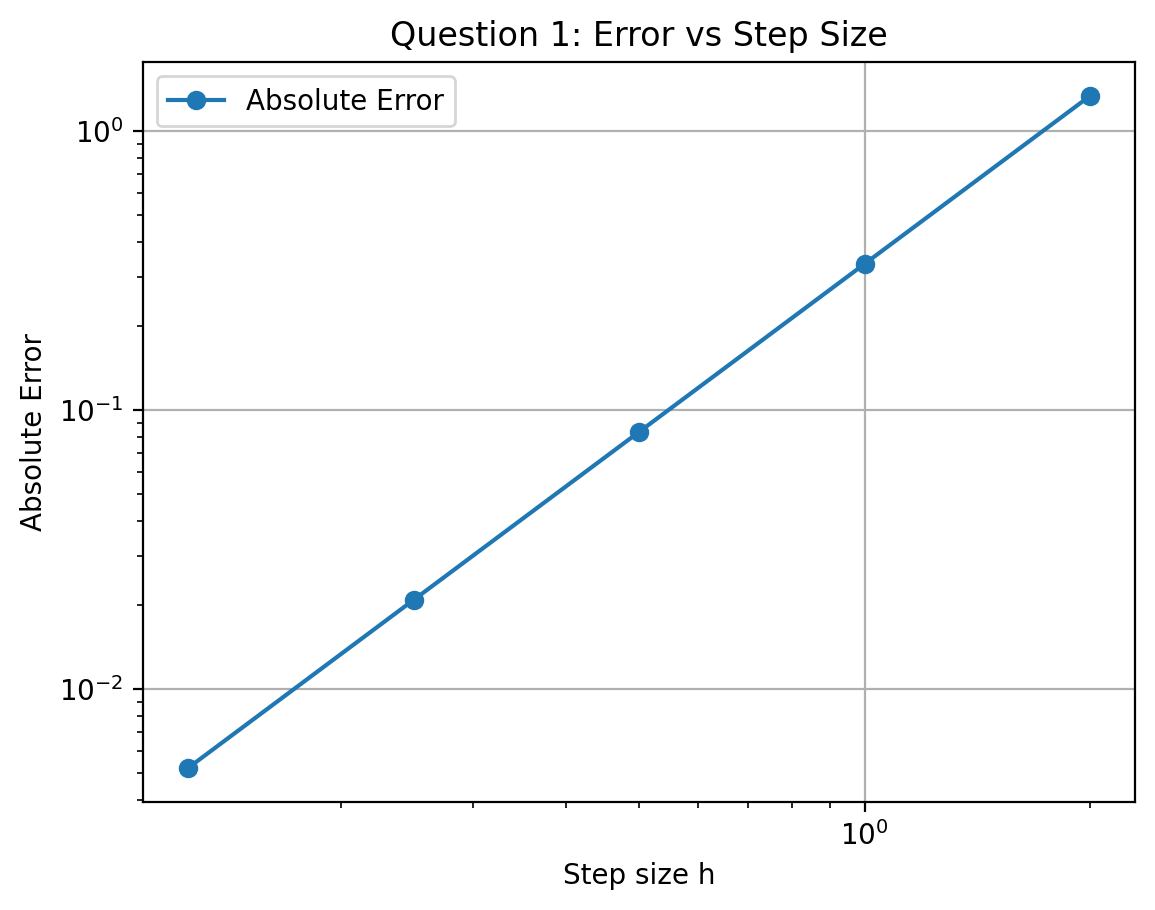
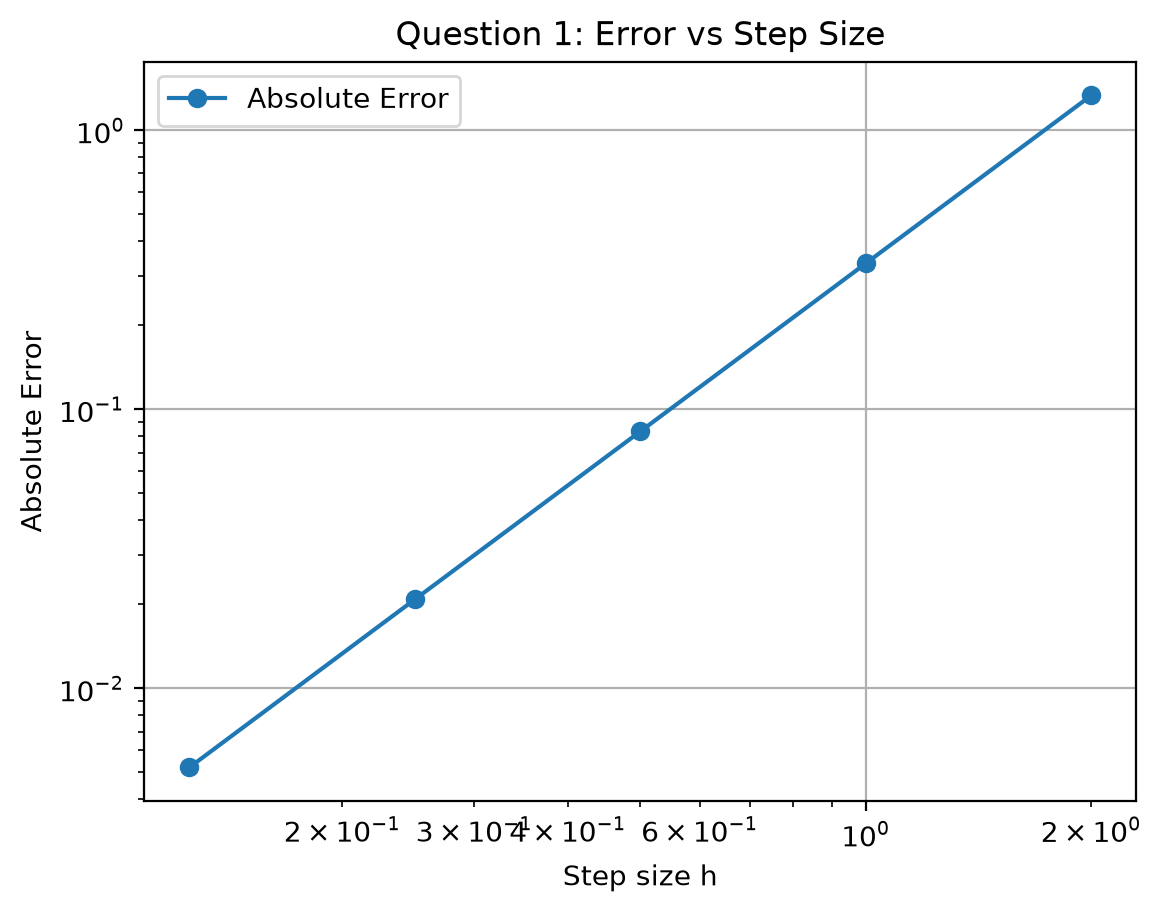
Remove Richardson extrapolation

diff --git a/Assignment_7_Trapezoidal_Rule/main.py b/Assignment_7_Trapezoidal_Rule/main.py
@@ -8,7 +8,6 @@ from algorithms import (
     TrapezoidalRule,
     absolute_error,
     estimate_order,
-    richardson_extrapolation,
 )
 
 # Import input, output and graph functions.
@@ -99,41 +98,11 @@ def question1(data):
     for row in rows:
         print("\t".join(str(value) for value in row))
 
-    # Perform Richardson extrapolation.
-    richardson_rows = []
-
-    # Use consecutive n values for Richardson calculation.
-    for i in range(len(n_values) - 1):
-        # Get old and new trapezoidal results.
-        old_result = approximation_values[i]
-        new_result = approximation_values[i + 1]
-
-        # Calculate Richardson result.
-        richardson = richardson_extrapolation(old_result, new_result)
-
-        # Calculate its error.
-        richardson_error = absolute_error(richardson, exact_value)
-
-        # Store Richardson values.
-        richardson_rows.append([
-            n_values[i],
-            n_values[i + 1],
-            f"{richardson:.10f}",
-            f"{richardson_error:.10f}",
-        ])
-
     # Save the main Question 1 table.
     save_csv(
         OUTPUT_FOLDER / "question1_table.csv",
         ["n", "h", "Approximation", "Absolute Error", "Order"],
         rows,
-    )
-
-    # Save Richardson table.
-    save_csv(
-        OUTPUT_FOLDER / "question1_richardson.csv",
-        ["Old n", "New n", "Richardson Value", "Richardson Error"],
-        richardson_rows,
     )
 
     # Create the Question 1 graph.
@@ -144,7 +113,7 @@ def question1(data):
     )
 
     # Return values for the final report.
-    return rows, richardson_rows
+    return rows
 
 
 def question2(data):
@@ -279,7 +248,7 @@ def main():
     data = read_input_file(INPUT_FILE)
 
     # Run Question 1.
-    q1_rows, richardson_rows = question1(data)
+    q1_rows = question1(data)
 
     # Run Question 2.
     q2_rows = question2(data)
@@ -294,7 +263,6 @@ def main():
     report.append("")
     report.append("Question 1 exact value = 2.666666666666667")
     report.append("Question 1 shows that the trapezoidal rule has approximately second-order accuracy.")
-    report.append("Richardson extrapolation gives a much better result.")
     report.append("")
     report.append("Question 2 reference value = 0.746824132812427")
     report.append("Increasing n gives smaller errors for this example.")

diff --git a/Assignment_7_Trapezoidal_Rule/functions.py b/Assignment_7_Trapezoidal_Rule/functions.py
@@ -79,28 +79,20 @@ def make_q1_graph(h_values: list, error_values: list, file_name: str) -> None:
 
     # Create a new graph.
     plt.figure()
-
     # Plot error against step size.
     plt.loglog(h_values, error_values, "o-", label="Absolute Error")
-
     # Add graph title.
     plt.title("Question 1: Error vs Step Size")
-
     # Add x-axis label.
     plt.xlabel("Step size h")
-
     # Add y-axis label.
     plt.ylabel("Absolute Error")
-
     # Show grid.
     plt.grid(True)
-
     # Show legend.
     plt.legend()
-
     # Save the graph.
     plt.savefig(file_name, dpi=200, bbox_inches="tight")
-
     # Close the graph.
     plt.close()
 
@@ -111,31 +103,22 @@ def make_q2_graph(n_values: list, approximation_values: list, reference_value: f
 
     # Create a new graph.
     plt.figure()
-
     # Plot numerical values.
     plt.plot(n_values, approximation_values, "o-", label="Trapezoidal Approximation")
-
     # Plot reference value as a horizontal line.
     plt.axhline(reference_value, linestyle="--", label="Reference Value")
-
     # Add graph title.
     plt.title("Question 2: Approximation vs n")
-
     # Add x-axis label.
     plt.xlabel("Number of intervals n")
-
     # Add y-axis label.
     plt.ylabel("Integral value")
-
     # Show grid.
     plt.grid(True)
-
     # Show legend.
     plt.legend()
-
     # Save the graph.
     plt.savefig(file_name, dpi=200, bbox_inches="tight")
-
     # Close the graph.
     plt.close()
 
@@ -146,27 +129,19 @@ def make_q3_graph(x_values: list, f_values: list, file_name: str) -> None:
 
     # Create a new graph.
     plt.figure()
-
     # Plot the given experimental data.
     plt.plot(x_values, f_values, "o-", label="Given Data")
-
     # Add graph title.
     plt.title("Question 3: Experimental Data")
-
     # Add x-axis label.
     plt.xlabel("x")
-
-    # Add y-axis label.
+    # Addy-axis label.
     plt.ylabel("f(x)")
-
     # Show grid.
     plt.grid(True)
-
     # Show legend.
     plt.legend()
-
     # Save the graph.
     plt.savefig(file_name, dpi=200, bbox_inches="tight")
-
     # Close the graph.
     plt.close()

diff --git a/Assignment_7_Trapezoidal_Rule/algorithms.py b/Assignment_7_Trapezoidal_Rule/algorithms.py
@@ -63,6 +63,4 @@ def estimate_order(error_old: float, error_new: float) -> float:
     return math.log(error_old / error_new, 2)
 
 
-def richardson_extrapolation(t_old: float, t_new: float) -> float:
-    # Richardson formula for a second-order trapezoidal rule.
-    return (4 * t_new - t_old) / 3
+

diff --git a/Assignment_7_Trapezoidal_Rule/header.py b/Assignment_7_Trapezoidal_Rule/header.py
@@ -23,9 +23,7 @@ def estimate_order(error_old: float, error_new: float) -> float:
     pass
 
 
-# Apply Richardson extrapolation.
-def richardson_extrapolation(t_old: float, t_new: float) -> float:
-    pass
+
 
 
 # Save a list of rows as a CSV table.
